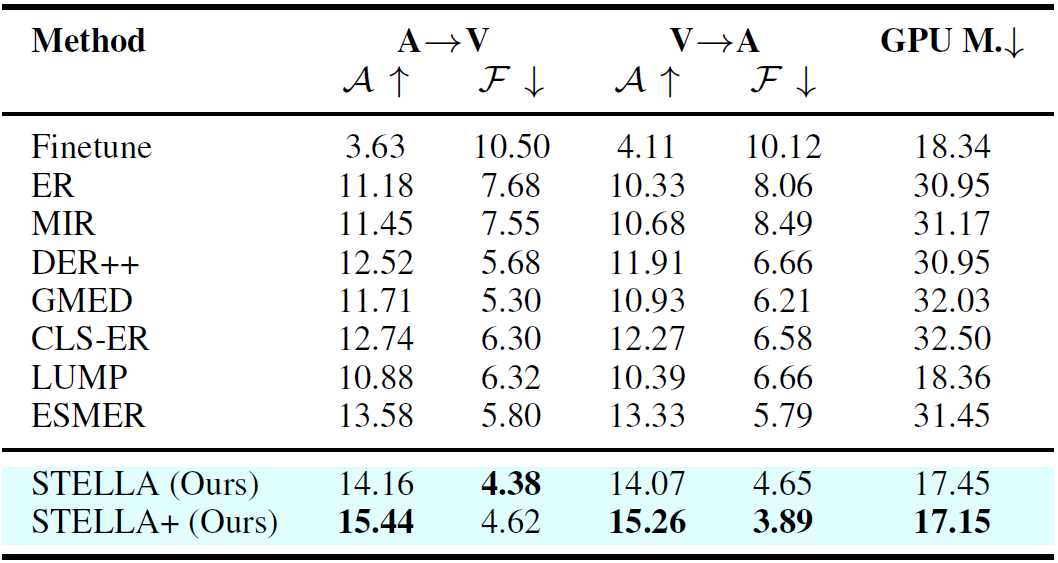
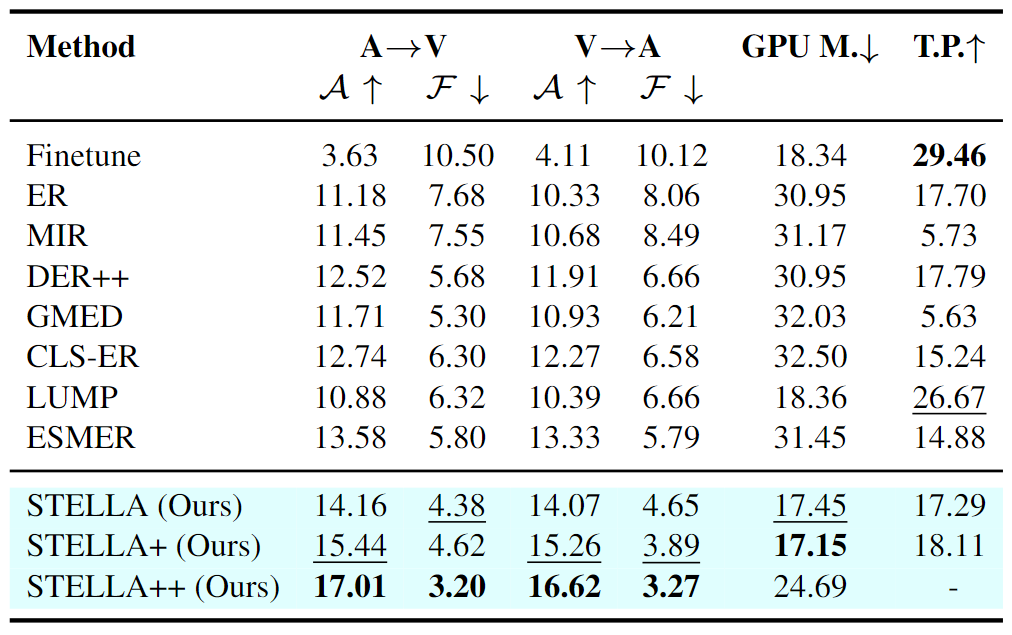
.

Changed region(s): [[0.0, 0.1208, 1.0, 0.9964], [0.0, 0.0, 1.0, 0.1208]]

diff --git a/index.html b/index.html
@@ -297,10 +297,12 @@
     <div class="column is-four-fifths">
       <h2 class="title is-5">Efficiency analysis</h2>
 
-    <center><img src="static/images/result_2.png" alt="Teaser" width="80%"></center>
+    <center><img src="static/images/result_2.png" alt="Teaser" width="90%"></center>
 
     <div class="content has-text-justified">
-      We measure GPU memory occupancy (GPU M.) in GB, estimated in a V100 with a batch size of 9. <i>STELLA</i> achieves an efficiency gain of <b>43.59%</b>.
+      We measure GPU memory occupancy (GPU M.) in GB and Throughput (T.P.) in sample/sec. Both are estimated in single V100 with a batch size of 15 for <i>STELLA++</i> and 9 for other methods.
+      <i>STELLA+</i> achieves an efficiency gain of <b>44.59%</b> and ranks the second best throughput.
+      <i>STELLA++</i> shows the benefit of the reduced GPU memory consumption of our method, resulting in improved performance compared to other baselines.
     </div>
   </div>
   </div>
